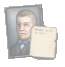
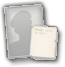
Improved character loading

diff --git a/src/main/java/com/example/hoi4modder/controller/CharacterItemController.java b/src/main/java/com/example/hoi4modder/controller/CharacterItemController.java
@@ -1,16 +1,20 @@
 package com.example.hoi4modder.controller;
 
+import com.example.hoi4modder.game.FieldValueMap;
 import com.example.hoi4modder.game.GameCharacter;
-import com.example.hoi4modder.game.roles.CharacterRole;
-import com.example.hoi4modder.game.roles.Role;
+import com.example.hoi4modder.model.files.images.DirectSurfaceManager;
+import com.example.hoi4modder.model.files.maps.DataPool;
+import com.example.hoi4modder.model.files.maps.LoadedData;
 import javafx.fxml.FXML;
 import javafx.fxml.Initializable;
 import javafx.scene.control.Button;
 import javafx.scene.control.CheckBox;
 import javafx.scene.control.TextField;
+import javafx.scene.image.Image;
 import javafx.scene.image.ImageView;
 import javafx.scene.layout.HBox;
 
+import java.io.IOException;
 import java.net.URL;
 import java.util.ResourceBundle;
 
@@ -45,6 +49,11 @@ public class CharacterItemController implements Initializable {
     @FXML
     private CheckBox unitLeaderBox;
 
+    private CharacterListEditor listEditor;
+
+    public void setParent(CharacterListEditor editor) {
+        this.listEditor = editor;
+    }
     @Override
     public void initialize(URL url, ResourceBundle resourceBundle) {
 
@@ -53,5 +62,29 @@ public class CharacterItemController implements Initializable {
     public void fromCharacter(GameCharacter character) {
         characterIDField.setText(character.getIdentification());
         characterNameField.setText(character.getName());
+        loadPortraits(character);
+    }
+
+    private void loadPortraits(GameCharacter character) {
+        DataPool<String> graphicsPool = ((LoadedData)listEditor.parentController.getObjectPool().get("data")).getGraphicsData();
+        DirectSurfaceManager ddsPictures = new DirectSurfaceManager();
+        FieldValueMap<String> portraits = character.getPortraits();
+        for (String portraitType : portraits.keys()) {
+            String portrait = portraits.get(portraitType);
+            String filepath = graphicsPool.get(portrait);
+            try {
+                Image image = ddsPictures.loadDDS("C:\\Users\\mysha\\Documents\\Paradox Interactive\\Hearts of Iron IV\\mod\\leylamod12d\\" + filepath);
+                if (portraitType.equals("small")) {
+                    smallPortraitImage.setImage(image);
+                } else if (portraitType.equals("large")){
+                    bigPortraitImage.setImage(image);
+                } else {
+                    throw new RuntimeException();
+                }
+            }
+            catch (IOException e) {
+                throw new RuntimeException(e);
+            }
+        }
     }
 }

diff --git a/src/main/java/com/example/hoi4modder/model/files/iovisitor/Unparser.java b/src/main/java/com/example/hoi4modder/model/files/iovisitor/Unparser.java
@@ -94,9 +94,8 @@ public class Unparser implements Visitor {
     }
 
     private void addRoles(GameCharacter character, BlockProperty mainProperty) {
-        for (CharacterRole role : character.getRoles()) {
+        for (String role : character.getPortraits().values()) {
             Unparser unparser = new Unparser();
-            role.acceptVisitor(unparser);
             mainProperty.add(unparser.getBlock());
         }
     }
@@ -106,7 +105,7 @@ public class Unparser implements Visitor {
         mainBlock.setKey("portraits");
         BlockProperty civilianBlock = new BlockProperty();
         civilianBlock.setKey("civilian");
-        for (String key : portraits.fields()) {
+        for (String key : portraits.keys()) {
             civilianBlock.add(new FieldValueProperty(key, portraits.get(key)));
         }
         mainBlock.add(civilianBlock);

diff --git a/src/main/java/com/example/hoi4modder/game/FieldValueMap.java b/src/main/java/com/example/hoi4modder/game/FieldValueMap.java
@@ -1,10 +1,10 @@
 package com.example.hoi4modder.game;
 
-import java.util.Iterator;
+import java.util.Collection;
 import java.util.Map;
 import java.util.Set;
 
-public class FieldValueMap<T> implements Iterable<T>{
+public class FieldValueMap<T> {
     private final Map<String, T> map;
 
     public FieldValueMap(Map<String, T> map) {
@@ -28,16 +28,16 @@ public class FieldValueMap<T> implements Iterable<T>{
         return map.containsKey(key);
     }
 
-    public Set<String> fields() {
+    public Set<String> keys() {
         return map.keySet();
-    }
-
-    @Override
-    public Iterator<T> iterator() {
-        return map.values().iterator();
     }
 
     public boolean containsValue(T value) {
         return map.containsValue(value);
     }
+
+    public Collection<T> values() {
+        return map.values();
+    }
+
 }

diff --git a/src/main/java/com/example/hoi4modder/controller/CharacterListEditor.java b/src/main/java/com/example/hoi4modder/controller/CharacterListEditor.java
@@ -96,6 +96,7 @@ public class CharacterListEditor extends ActivePaneController {
                 e.printStackTrace();
             }
         }
+        charactersListView.scrollTo(0);
     }
     private void loadItem(GameCharacter character) throws IOException {
         FXMLLoader itemLoader = new FXMLLoader();
@@ -103,6 +104,7 @@ public class CharacterListEditor extends ActivePaneController {
         Pane pane = itemLoader.load();
         charactersListView.getItems().add(pane);
         CharacterItemController controller = itemLoader.getController();
+        controller.setParent(this);
         controller.fromCharacter(character);
         controllerList.add(controller);
     }
